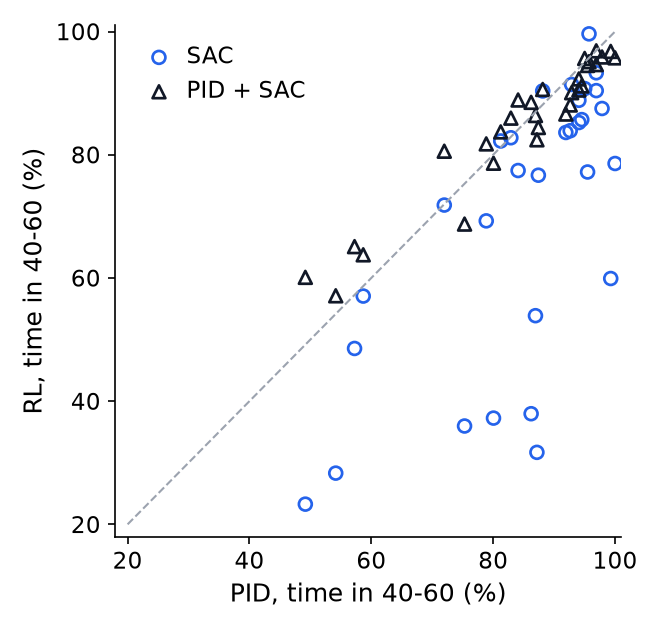
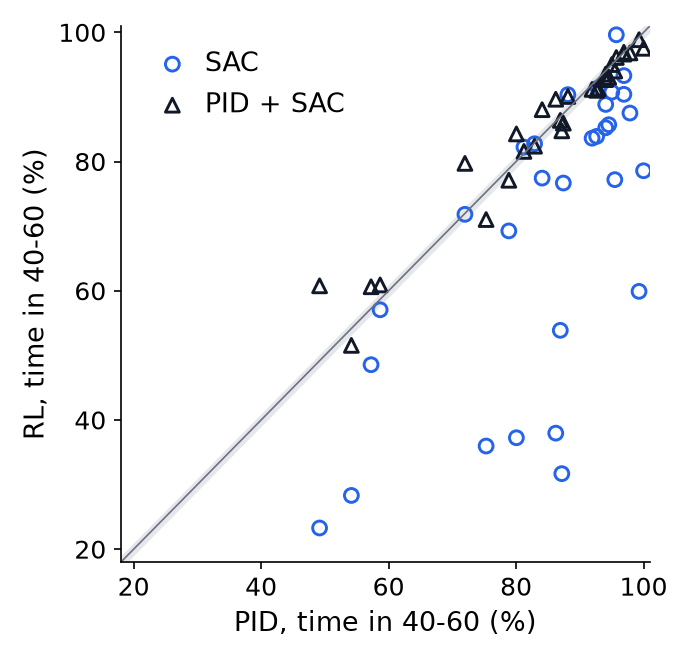
Retrain PID + SAC for 500k steps like SAC; mark the ±1 point band

diff --git a/benchmark.py b/benchmark.py
@@ -1,8 +1,8 @@
 """
 Benchmark three controllers on 30 held-out patients:
   PID          tuned clinical-style baseline
-  SAC          pure reinforcement learning (3 seeds)
-  PID + SAC    residual RL: SAC learns corrections on top of the PID (3 seeds)
+  SAC          pure reinforcement learning (5 seeds)
+  PID + SAC    residual RL: SAC learns corrections on top of the PID (5 seeds)
 
     python benchmark.py
 Writes results/benchmark.json, results/benchmark.md and figures in media/.
@@ -104,20 +104,21 @@ def main():
 
 def style(ax):
     for s in ('top', 'right'): ax.spines[s].set_visible(False)
-    ax.tick_params(labelsize=11)
+    ax.tick_params(labelsize=12)
 
 
 def figure_paired(pp):
-    fig, ax = plt.subplots(figsize=(4.4, 4.2), dpi=150)
-    ax.plot([20, 100], [20, 100], color='#9CA3AF', lw=1, ls='--')
+    fig, ax = plt.subplots(figsize=(4.6, 4.4), dpi=150)
+    ax.fill_between([15, 101], [14, 100], [16, 102], color='#9CA3AF', alpha=0.25, lw=0)   # within 1 point
+    ax.plot([15, 101], [15, 101], color='#6B7280', lw=0.8)
     for n, mk in (('SAC', 'o'), ('PID + SAC', '^')):
         if n in pp:
-            ax.scatter(pp['PID'], pp[n], s=38, facecolors='none', edgecolors=C[n], lw=1.3, label=n, marker=mk)
-    ax.set_xlabel('PID, time in 40-60 (%)', fontsize=12)
-    ax.set_ylabel('RL, time in 40-60 (%)', fontsize=12)
+            ax.scatter(pp['PID'], pp[n], s=44, facecolors='none', edgecolors=C[n], lw=1.4, label=n, marker=mk)
+    ax.set_xlabel('PID, time in 40-60 (%)', fontsize=13)
+    ax.set_ylabel('RL, time in 40-60 (%)', fontsize=13)
     ax.set_xticks([20, 40, 60, 80, 100]); ax.set_yticks([20, 40, 60, 80, 100])
     ax.set_xlim(18, 101); ax.set_ylim(18, 101); style(ax)
-    ax.legend(frameon=False, loc='upper left', fontsize=11, handletextpad=0.2)
+    ax.legend(frameon=False, loc='upper left', fontsize=13, handletextpad=0.2)
     fig.tight_layout(); fig.savefig('media/paired_patients.png'); plt.close(fig)
 
 

diff --git a/results/benchmark.md b/results/benchmark.md
@@ -1,13 +1,13 @@
 | | PID | SAC | PID + SAC |
 |---|---|---|---|
-| Time in 40-60 (%) | 84.9 | 70.0 ± 9.0 | 85.0 ± 0.8 |
-| Time below 40 (%) | 5.5 | 19.5 ± 7.6 | 6.0 ± 1.7 |
-| Time above 60 (%) | 9.6 | 10.5 ± 2.6 | 9.0 ± 1.0 |
-| MDAPE (%) | 7.4 | 14.5 ± 5.5 | 7.3 ± 0.3 |
-| Maintenance propofol (mg/kg/h) | 7.1 | 6.6 ± 0.5 | 6.8 ± 0.2 |
-| Induction bolus (mg/kg) | 1.9 | 2.5 ± 0.0 | 2.1 ± 0.2 |
-| Patients reaching BIS < 20 (%) | 23.3 | 38.0 ± 2.7 | 26.0 ± 7.1 |
+| Time in 40-60 (%) | 84.9 | 70.0 ± 9.0 | 85.3 ± 0.8 |
+| Time below 40 (%) | 5.5 | 19.5 ± 7.6 | 5.0 ± 1.3 |
+| Time above 60 (%) | 9.6 | 10.5 ± 2.6 | 9.7 ± 1.2 |
+| MDAPE (%) | 7.4 | 14.5 ± 5.5 | 7.5 ± 0.2 |
+| Maintenance propofol (mg/kg/h) | 7.1 | 6.6 ± 0.5 | 6.9 ± 0.2 |
+| Induction bolus (mg/kg) | 1.9 | 2.5 ± 0.0 | 1.9 ± 0.2 |
+| Patients reaching BIS < 20 (%) | 23.3 | 38.0 ± 2.7 | 18.0 ± 5.0 |
 
 SAC vs PID, per patient (time in target, averaged over seeds): better on 2, worse on 25, within 1 point on 3 of 30. Mean difference -14.9 points (95% CI -26.0 to -6.3, bootstrap over seeds and patients).
 
-PID + SAC vs PID, per patient (time in target, averaged over seeds): better on 11, worse on 14, within 1 point on 5 of 30. Mean difference +0.1 points (95% CI -1.6 to +1.9, bootstrap over seeds and patients).
+PID + SAC vs PID, per patient (time in target, averaged over seeds): better on 8, worse on 12, within 1 point on 10 of 30. Mean difference +0.4 points (95% CI -1.0 to +2.0, bootstrap over seeds and patients).
